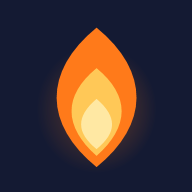
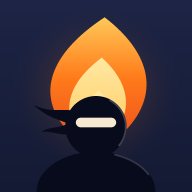
v3.13.0: νέο εικονίδιο — ο νίντζα μπροστά στη φλόγα
Το εικονίδιο της αρχικής οθόνης ήταν σκέτη συμμετρική φλόγα. Τώρα: ψηλή
φλόγα (τα τρία στρώματα της φλόγας του παιχνιδιού) πίσω από τον νίντζα —
κεφάλι, ώμοι, λευκή σχισμή ματιών, ουρές κορδέλας, φως φεγγαριού. Διαβάζεται
και στα 48 pixel.
- tools/make-icons.mjs: ζωγραφίζεται από κώδικα με την παλέτα, χωρίς
  εξαρτήσεις (scanline, υπερδειγματοληψία, PNG με zlib του node).
- icon-maskable-512.png με περιθώριο για κύκλο· στο manifest και στο sw.js.

diff --git a/sw.js b/sw.js
@@ -1,6 +1,6 @@
 // Service worker — offline cache. Σε κάθε αλλαγή αρχείων ανεβαίνει το VERSION,
 // αλλιώς οι συσκευές κρατούν την παλιά έκδοση.
-const VERSION = 'flame-v3.12.0';
+const VERSION = 'flame-v3.13.0';
 
 const CORE = [
   './',
@@ -16,6 +16,7 @@ const CORE = [
   './assets/fonts/comfortaa-700-latin.woff2',
   './assets/img/icon-192.png',
   './assets/img/icon-512.png',
+  './assets/img/icon-maskable-512.png',
   './assets/img/flame.png',
   './src/shared/ids.js',
   './src/shared/graphemes.js',

diff --git a/NEXT-FIXES.md b/NEXT-FIXES.md
@@ -106,6 +106,8 @@ PROJECT_SPEC κεφ. 7 (μόνιμη, ορατή ενδυνάμωση — ποτ
 
 | v3.12.0 | **Ταχύτητα**: το νέο HUD κόστιζε ~2,4 ms σε κάθε καρέ (τα γραφικά του Phaser ξαναχτίζονται 60 φορές το δευτερόλεπτο). Τώρα «ψήνεται» σε εικόνα μόνο όταν αλλάζει κάτι → **0,13 ms**. Ίδια εμφάνιση, λιγότερα χαμένα καρέ στο κινητό | — (αόρατο) |
 
+| v3.13.0 | **Νέο εικονίδιο** στην αρχική οθόνη: ο νίντζα (λευκή σχισμή ματιών, κορδέλα) μπροστά σε ψηλή φλόγα — πριν ήταν σκέτη συμμετρική φλόγα. Και «maskable» έκδοση για τα κινητά που κόβουν το εικονίδιο σε κύκλο. Φτιάχνεται από κώδικα: `node tools/make-icons.mjs` | ⚠ Για να δεις το νέο εικονίδιο στο κινητό: αφαίρεσε την εφαρμογή από την αρχική οθόνη και ξαναπρόσθεσέ τη (το εικονίδιο δεν ανανεώνεται μόνο του). Το προφίλ και οι λέξεις μένουν |
+
 **Για γρήγορη δοκιμή των σταθμών** χωρίς να παίξεις 7 λεβελ: ✅ έγινε στη
 v3.8.0 — Parent Mode → «Για δοκιμές: άλμα σταθμού». Αλλάζει ΜΟΝΟ τον σταθμό
 του ενεργού προφίλ (κάν' το στο «Δοκιμή»).
